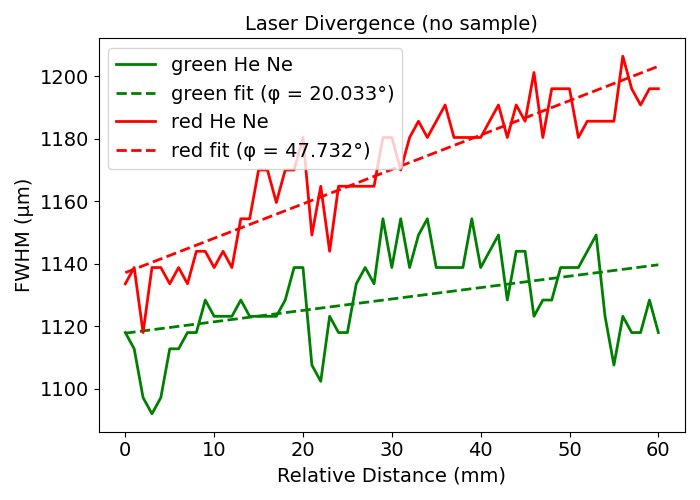
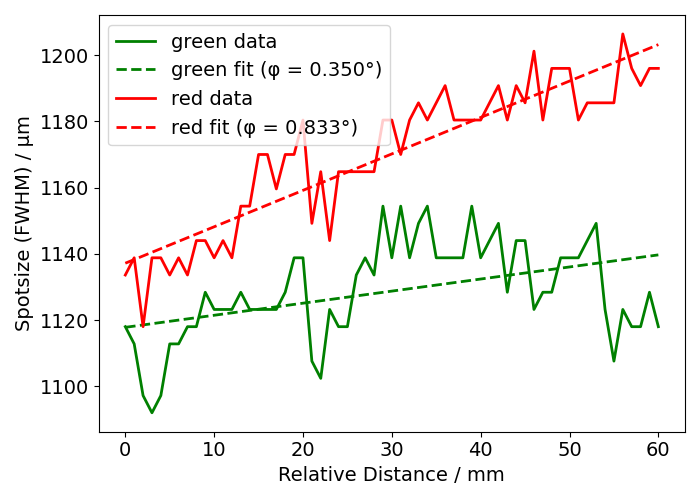
optimized the scritps

diff --git a/FWHM-analysis.py b/FWHM-analysis.py
@@ -510,7 +510,7 @@ green_cmap = LinearSegmentedColormap.from_list(
         (0.0, 1.0, 0.0),   # pure green (0,255,0)
         (0.0, 1.0, 0.7)    # light blue (0,128,255)
     ]
-)
+)text
 
 greens = green_cmap(np.linspace(0, 1, len(selected_lenses)))
 reds = red_cmap(np.linspace(0, 1, len(selected_lenses)))
@@ -706,6 +706,8 @@ plt.show()
 # %% Good plot of Laser Divergence
 import matplotlib.pyplot as plt
 import numpy as np
+import pandas as pd
+
 
 df = pd.read_csv("beam_data.csv")
 df_fit = pd.read_csv("fit_results.csv")
@@ -769,5 +771,6 @@ plt.yticks(fontsize=14)
 
 plt.legend(fontsize=14)
 plt.tight_layout()
+plt.savefig("Laser-Divergence")
 plt.show()
 # %%
